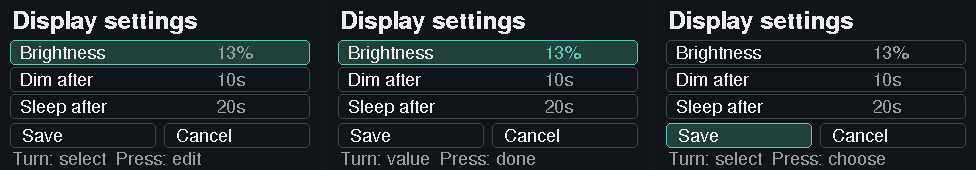
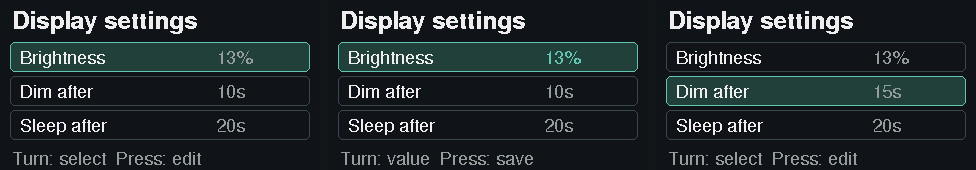
fix: save display values when the wheel confirms an edit
Keep three value rows and persist each confirmed edit without leaving Display. Back and expiry discard only unconfirmed changes, and failed saves restore the last confirmed values.

Remove separate Save/Cancel controls, cover persistence and presentation in regression tests, and update the control guide. References #36 and #33.

Changed region(s): [[0.0, 0.2353, 1.0, 0.8824], [0.8607, 0.9118, 0.9221, 0.9706], [0.4918, 0.9118, 0.5533, 0.9706]]

diff --git a/test/test_localui/test_localui.cpp b/test/test_localui/test_localui.cpp
@@ -156,50 +156,55 @@ static void wake_holds_and_mixed_gestures_do_not_emit() {
   held.devices(); held.tick(-1); held.tick(0,true);held.tick(1,true);held.tick();held.tick();
   TEST_ASSERT_FALSE(held.c.take(out));
 }
-static void display_wheel_selects_rows_and_only_explicit_save_persists() {
+static void display_confirm_saves_each_value_without_leaving_the_screen() {
   Drive d;d.home();for(unsigned i=0;i<4;i++)d.tick(1);d.click();
-  TEST_ASSERT_EQUAL(Screen::brightness,d.c.view().screen);
-  d.tick(1);
-  TEST_ASSERT_EQUAL(1,d.c.view().setting);
+  d.tick(1);TEST_ASSERT_EQUAL(1,d.c.view().setting);
   TEST_ASSERT_EQUAL(32,d.c.preference());
-  TEST_ASSERT_EQUAL(10,d.c.preferences().dimSeconds);
-  d.click();d.tick(1); // Edit Dim after.
-  TEST_ASSERT_EQUAL(1,d.c.view().setting);
-  TEST_ASSERT_EQUAL(15,d.c.preferences().dimSeconds);
-  d.click();d.tick(1); // Return to selection, then select Sleep after.
-  TEST_ASSERT_EQUAL(2,d.c.view().setting);
-  TEST_ASSERT_EQUAL(20,d.c.preferences().offSeconds);
-  d.click();d.tick(-1);d.click();
-  TEST_ASSERT_EQUAL(15,d.c.preferences().offSeconds);
   DisplayPreferences saved;TEST_ASSERT_FALSE(d.c.takePreferences(saved));
-  d.tick(1); // Save row.
-  d.click(false);TEST_ASSERT_EQUAL(Screen::brightness,d.c.view().screen);
+  d.click();d.tick(1);TEST_ASSERT_EQUAL(15,d.c.preferences().dimSeconds);
+  TEST_ASSERT_FALSE(d.c.takePreferences(saved));
+  d.click(false);TEST_ASSERT_TRUE(d.c.view().displayEditing);
   TEST_ASSERT_FALSE(d.c.takePreferences(saved));
   d.click();TEST_ASSERT_TRUE(d.c.takePreferences(saved));
+  TEST_ASSERT_EQUAL(15,saved.dimSeconds);TEST_ASSERT_EQUAL(20,saved.offSeconds);
+  TEST_ASSERT_EQUAL(Screen::brightness,d.c.view().screen);
+  TEST_ASSERT_FALSE(d.c.view().displayEditing);TEST_ASSERT_EQUAL(1,d.c.view().setting);
+  d.c.brightnessResult(d.now,true);
+  d.tick(1);d.click();d.tick(-1);d.click();TEST_ASSERT_TRUE(d.c.takePreferences(saved));
   TEST_ASSERT_EQUAL(15,saved.dimSeconds);TEST_ASSERT_EQUAL(15,saved.offSeconds);
-  TEST_ASSERT_FALSE(d.c.takePreferences(saved));
+  d.c.brightnessResult(d.now,true);
+  d.tick(1);TEST_ASSERT_EQUAL(2,d.c.view().setting); // No Save or Cancel rows.
+  d.back();TEST_ASSERT_EQUAL(15,d.c.preferences().dimSeconds);TEST_ASSERT_EQUAL(15,d.c.preferences().offSeconds);
+  d.click();TEST_ASSERT_EQUAL(0,d.c.view().setting);TEST_ASSERT_FALSE(d.c.view().displayEditing);
 }
-static void display_cancel_timeout_and_reentry_discard_edits() {
+static void display_back_expiry_and_reentry_keep_only_confirmed_values() {
   for(unsigned reason=0;reason<3;++reason) {
     Drive d;d.home();for(unsigned i=0;i<4;i++)d.tick(1);d.click();
-    d.click(false);d.tick(1); // An unseen press must not enter editing.
-    TEST_ASSERT_EQUAL(32,d.c.preference());TEST_ASSERT_EQUAL(1,d.c.view().setting);
-    d.tick(-1);d.click();d.tick(1);TEST_ASSERT_EQUAL(38,d.c.preference());
-    if(reason==0) {d.click();for(unsigned i=0;i<4;i++)d.tick(1);d.tick(1);TEST_ASSERT_EQUAL(4,d.c.view().setting);d.click();}
-    else if(reason==1)d.back();
-    else {d.f.base.anyMoving=false;d.tick(0,false,true,false,21000);}
-    DisplayPreferences saved;TEST_ASSERT_FALSE(d.c.takePreferences(saved));TEST_ASSERT_EQUAL(32,d.c.preference());
-    if(reason<2) {d.click();d.tick(1);TEST_ASSERT_EQUAL(1,d.c.view().setting);TEST_ASSERT_EQUAL(32,d.c.preference());}
+    d.click();d.tick(1);d.click();
+    DisplayPreferences saved;TEST_ASSERT_TRUE(d.c.takePreferences(saved));d.c.brightnessResult(d.now,true);
+    d.click();d.tick(1);TEST_ASSERT_EQUAL(51,d.c.preference());
+    if(reason==0)d.back();
+    else if(reason==1){d.f.base.anyMoving=false;d.tick(0,false,true,false,21000);}
+    else {d.f.base.authorized=false;d.tick();}
+    TEST_ASSERT_FALSE(d.c.takePreferences(saved));TEST_ASSERT_EQUAL(38,d.c.preference());
+    if(reason==0){d.click();TEST_ASSERT_FALSE(d.c.view().displayEditing);TEST_ASSERT_EQUAL(0,d.c.view().setting);}
   }
 }
-static void brightness_back_cancels_and_explicit_save_reports_failure() {
+static void brightness_back_cancels_and_confirm_reports_failure() {
   Drive d; d.home(); for(unsigned i=0;i<4;i++) d.tick(1); d.click();
-  TEST_ASSERT_EQUAL(int(Screen::brightness),int(d.c.view().screen));
-  d.click();d.tick(1); TEST_ASSERT_EQUAL(38,d.c.preference()); d.back();
-  DisplayPreferences saved; TEST_ASSERT_FALSE(d.c.takePreferences(saved)); TEST_ASSERT_EQUAL(32,d.c.preference());
-  d.click();d.click();d.tick(1);d.click();for(unsigned i=0;i<3;i++)d.tick(1);d.click();
-  TEST_ASSERT_TRUE(d.c.takePreferences(saved)); TEST_ASSERT_EQUAL(38,saved.brightness);
-  d.c.brightnessResult(d.now,false); TEST_ASSERT_EQUAL(int(Notice::saveFailed),int(d.c.view().notice));
+  d.click();d.tick(1);TEST_ASSERT_EQUAL(38,d.c.preference());d.back();
+  DisplayPreferences saved;TEST_ASSERT_FALSE(d.c.takePreferences(saved));TEST_ASSERT_EQUAL(32,d.c.preference());
+  d.click();d.click();d.tick(1);d.click();TEST_ASSERT_TRUE(d.c.takePreferences(saved));
+  d.c.brightnessResult(d.now,false);TEST_ASSERT_EQUAL(Notice::saveFailed,d.c.view().notice);
+  TEST_ASSERT_EQUAL(32,d.c.preference());
+  d.click();d.tick(1);d.click();TEST_ASSERT_TRUE(d.c.takePreferences(saved));d.c.brightnessResult(d.now,true);
+  d.back();TEST_ASSERT_EQUAL(38,d.c.preference());
+}
+static void display_unchanged_and_unseen_confirmation_never_write() {
+  Drive d;d.home();for(unsigned i=0;i<4;i++)d.tick(1);d.click();
+  d.click(false);TEST_ASSERT_FALSE(d.c.view().displayEditing);
+  d.click();d.click();DisplayPreferences saved;TEST_ASSERT_FALSE(d.c.takePreferences(saved));
+  d.tick(-1);TEST_ASSERT_EQUAL(0,d.c.view().setting);
 }
 static void privileged_brightness_draft_reverts_on_expiry_or_configuration_change() {
   for(unsigned reason=0;reason<2;reason++) {
@@ -359,10 +364,10 @@ static void graphics_discard_clears_settings_events_and_preserves_live_preferenc
   const auto preserved=events.c.preferences();TEST_ASSERT_EQUAL(128,preserved.brightness);TEST_ASSERT_EQUAL(30,preserved.dimSeconds);TEST_ASSERT_EQUAL(60,preserved.offSeconds);
   for(unsigned phase=0;phase<4;phase++) {
     Drive d;d.home();for(unsigned i=0;i<4;i++)d.tick(1);d.click();d.click();d.tick(1); //32->38 live preview
-    if(phase) {d.click();for(unsigned i=0;i<3;i++)d.tick(1);d.click();} // explicit Save produced, but not yet consumed
+    if(phase) d.click(); // Confirmation produced, but not yet consumed
     if(phase>=2) {DisplayPreferences output;TEST_ASSERT_TRUE(d.c.takePreferences(output));d.c.brightnessResult(d.now,phase==2);}
     assertTransientDiscarded(d);
-    TEST_ASSERT_EQUAL(phase<2?32:38,d.c.preference()); // consumed failed Save also keeps its already applied live value
+    TEST_ASSERT_EQUAL(phase==2?38:32,d.c.preference()); // Only a successful save changes the confirmed baseline.
   }
 }
 static void graphics_discard_restarts_debounce_and_suppresses_held_recovery_input() {
@@ -540,12 +545,14 @@ static void routed_display_revocation_returns_to_its_visible_origin(){
   d.click();TEST_ASSERT_EQUAL(cause&2?Screen::unlock:Screen::brightness,d.c.view().screen);
  }
 }
-static void routed_display_save_returns_to_configure_once(){
+static void routed_display_confirm_stays_until_back(){
  Drive d;d.f.base.quickReady=true;d.f.base.quickRevision=3;d.f.base.anyMoving=false;d.tick();
  for(unsigned i=0;i<7;i++)d.tick(1);d.click();d.click();for(unsigned i=0;i<5;i++)d.tick(1);d.click();
- TEST_ASSERT_EQUAL(Screen::brightness,d.c.view().screen);for(unsigned i=0;i<3;i++)d.tick(1);d.click();
- TEST_ASSERT_EQUAL(Screen::configureMenu,d.c.view().screen);TEST_ASSERT_EQUAL(5,d.c.view().selected);
- DisplayPreferences prefs;Command command;TEST_ASSERT_TRUE(d.c.takePreferences(prefs));TEST_ASSERT_FALSE(d.c.takePreferences(prefs));TEST_ASSERT_FALSE(d.c.take(command));
+ TEST_ASSERT_EQUAL(Screen::brightness,d.c.view().screen);d.click();d.tick(1);d.click();
+ TEST_ASSERT_EQUAL(Screen::brightness,d.c.view().screen);
+ DisplayPreferences prefs;Command command;TEST_ASSERT_TRUE(d.c.takePreferences(prefs));d.c.brightnessResult(d.now,true);
+ TEST_ASSERT_FALSE(d.c.takePreferences(prefs));TEST_ASSERT_FALSE(d.c.take(command));d.back();
+ TEST_ASSERT_EQUAL(Screen::configureMenu,d.c.view().screen);TEST_ASSERT_EQUAL(5,d.c.view().selected);TEST_ASSERT_EQUAL(38,d.c.preference());
 }
 static void upper_brightness_changes_in_five_percent_steps_without_losing_saved_levels() {
   Drive d; d.c.setPreferences({128,0,0});d.home();for(unsigned i=0;i<4;i++)d.tick(1);d.click();
@@ -583,10 +590,11 @@ int main() {
   UNITY_BEGIN();
   RUN_TEST(unseen_unlock_key_never_appends_until_presented);
   RUN_TEST(unseen_unlock_done_never_submits_until_presented);
-  RUN_TEST(display_cancel_timeout_and_reentry_discard_edits);
-  RUN_TEST(display_wheel_selects_rows_and_only_explicit_save_persists);
+  RUN_TEST(display_back_expiry_and_reentry_keep_only_confirmed_values);
+  RUN_TEST(display_unchanged_and_unseen_confirmation_never_write);
+  RUN_TEST(display_confirm_saves_each_value_without_leaving_the_screen);
   RUN_TEST(upper_brightness_changes_in_five_percent_steps_without_losing_saved_levels);
-  RUN_TEST(routed_display_save_returns_to_configure_once);
+  RUN_TEST(routed_display_confirm_stays_until_back);
   RUN_TEST(routed_display_revocation_returns_to_its_visible_origin);
   RUN_TEST(approved_controller_navigation_preserves_explicit_origins);
   RUN_TEST(quick_revocation_consumes_only_an_existing_press);
@@ -605,7 +613,7 @@ int main() {
   RUN_TEST(locked_stop_lease_never_authorizes_another_action);
   RUN_TEST(secrets_wipe_on_cancel_configuration_change_sleep_and_timeout);
   RUN_TEST(wake_holds_and_mixed_gestures_do_not_emit);
-  RUN_TEST(brightness_back_cancels_and_explicit_save_reports_failure);
+  RUN_TEST(brightness_back_cancels_and_confirm_reports_failure);
   RUN_TEST(privileged_brightness_draft_reverts_on_expiry_or_configuration_change);
   RUN_TEST(settings_receives_logical_events_and_closes_explicitly);
   RUN_TEST(encoder_detents_bounce_and_memory_failures_remain_bounded);

diff --git a/src/LocalUi.cpp b/src/LocalUi.cpp
@@ -22,8 +22,7 @@ void Controller::setPreferences(const DisplayPreferences &p) {
   }
 }
 void Controller::discardTransient() {
-  // Save consumption is the existing synchronous live-application boundary;
-  // a reported persistence failure still leaves those live values applied.
+  // Discard unconfirmed display edits while retaining the last saved values.
   const auto keep=state.screen==Screen::brightness || savePending?brightnessBefore:preferences();
   editor.cancel();valueEditor.cancel();
   state=View{};pending=repeatWitness=Command{};formInput={};
@@ -251,9 +250,12 @@ void Controller::shortPress(uint32_t now,const Model &m,bool visible) {
     break;
   case Screen::brightness:
     if(!visible) state.notice=Notice::wait;
-    else if(state.setting<3) state.displayEditing=!state.displayEditing;
-    else if(state.setting==3) {savePending=true;if(state.routed)closeForm();else {state.screen=Screen::home;state.selected=4;}}
-    else goBack();
+    else if(!state.displayEditing) state.displayEditing=true;
+    else {
+      state.displayEditing=false;
+      const auto value=preferences();
+      savePending=value.brightness!=brightnessBefore.brightness || value.dimSeconds!=brightnessBefore.dimSeconds || value.offSeconds!=brightnessBefore.offSeconds;
+    }
     break;
   case Screen::control:
     if(state.action==Action::count) {
@@ -605,7 +607,7 @@ void Controller::tick(uint32_t now, const Model &m, int8_t turn, bool pressed, b
     else if(state.screen == Screen::brightness) {
       if(!state.displayEditing) {
         const int next=int(state.setting)+(turn>0?1:-1);
-        state.setting=next<0?0:next>4?4:next;
+        state.setting=next<0?0:next>2?2:next;
       } else if(state.setting == 0) {
         if(turn>0) {
           for(auto level:levels) if(level>state.level) {state.level=level;break;}
@@ -642,6 +644,8 @@ void Controller::tick(uint32_t now, const Model &m, int8_t turn, bool pressed, b
   }
 }
 void Controller::brightnessResult(uint32_t now, bool saved) {
+  if(saved) brightnessBefore=preferences();
+  else setPreferences(brightnessBefore);
   state.notice = saved ? Notice::saved : Notice::saveFailed;
   noticeSince = now;
 }

diff --git a/src/LocalUiRenderer.cpp b/src/LocalUiRenderer.cpp
@@ -339,11 +339,11 @@ void Canvas::paint(const Model &m, const View &v, const StatusDisplay::Snapshot 
     text(12, 28, "Display settings", true, white);
     const char *labels[] = {"Brightness", "Dim after", "Sleep after"};
     for(int i = 0; i < 3; i++) {
-      const int y = 40 + i * 27;
+      const int y = 42 + i * 34;
       const bool active = v.setting == i;
-      fillRoundRect(10, y, 300, 25, 5, active ? selected : bg);
-      drawRoundRect(10, y, 300, 25, 5, active ? teal : line);
-      text(20, y + 18, labels[i], false, white, 160);
+      fillRoundRect(10, y, 300, 30, 5, active ? selected : bg);
+      drawRoundRect(10, y, 300, 30, 5, active ? teal : line);
+      text(20, y + 21, labels[i], false, white, 160);
       if(i == 0)
         snprintf(label, sizeof(label), "%u%%", unsigned((v.level * 100 + 127) / 255));
       else {
@@ -353,15 +353,9 @@ void Canvas::paint(const Model &m, const View &v, const StatusDisplay::Snapshot 
         else
           snprintf(label, sizeof(label), "%us", unsigned(seconds));
       }
-      text(216, y + 18, label, false, active && v.displayEditing ? teal : muted, 86);
+      text(216, y + 21, label, false, active && v.displayEditing ? teal : muted, 86);
     }
-    for(int i=0;i<2;++i) {
-      const int x=10+i*154;
-      fillRoundRect(x,123,146,25,5,v.setting==i+3?selected:bg);
-      drawRoundRect(x,123,146,25,5,v.setting==i+3?teal:line);
-      text(x+12,141,i==0?"Save":"Cancel",false,white,120);
-    }
-    text(12,164,v.displayEditing?"Turn: value  Press: done":v.setting<3?"Turn: select  Press: edit":"Turn: select  Press: choose",false,muted);
+    text(12,164,v.displayEditing?"Turn: value  Press: save":"Turn: select  Press: edit",false,muted);
   } else if(v.screen==Screen::actions || v.screen==Screen::repeatActions) {
     snprintf(label,sizeof(label),"#%s%u %s",v.entity.kind==EntityKind::group?"G":"",unsigned(v.entity.id),m.target.name);
     text(12,28,label,true,white,230);

diff --git a/tests/ui-render/runtime-test.cpp b/tests/ui-render/runtime-test.cpp
@@ -1739,7 +1739,10 @@ int main(int argc,char **argv){
   assert(quickUi.preferences().brightness==displayBefore.brightness && quickUi.preferences().dimSeconds==displayBefore.dimSeconds);
   click();idle();assert(RuntimeTestAccess::view(quickUi).displayEditing); // Must repaint and present editing mode.
   click();idle();assert(!RuntimeTestAccess::view(quickUi).displayEditing);
-  for(unsigned i=0;i<2;++i){rotate(1);idle();}click();idle(); // Explicit Display Save, unchanged values.
+  click();idle();rotate(1);idle();click();idle(); // Confirm Dim after and persist immediately.
+  assert(lastQuery.screen==Screen::brightness && !RuntimeTestAccess::view(quickUi).displayEditing);
+  assert(quickUi.preferences().dimSeconds==15 && RuntimeTestAccess::view(quickUi).notice==Notice::saved);
+  back();idle();assert(quickUi.preferences().dimSeconds==15);
   assert(lastQuery.screen==Screen::configureMenu && RuntimeTestAccess::view(quickUi).selected==5);
   for(unsigned cause=0;cause<2;++cause){
     selectMenu(5);click();idle();assert(lastQuery.screen==Screen::brightness);

diff --git a/tests/ui-render/render.cpp b/tests/ui-render/render.cpp
@@ -98,7 +98,7 @@ int main(int argc,char **argv) {
   v.notice=Notice::stopNotQueued;canvas.paint(m,v,s);save(argv[1],"stop-not-queued",buffer);v.notice=Notice::none;
   v=View{};v.screen=Screen::brightness;canvas.paint(m,v,s);save(argv[1],"display-select",buffer);
   const auto displaySelection=buffer;v.displayEditing=true;canvas.paint(m,v,s);save(argv[1],"display-edit",buffer);assert(buffer!=displaySelection);
-  v.displayEditing=false;v.setting=3;canvas.paint(m,v,s);save(argv[1],"display-save",buffer);assert(buffer!=displaySelection);
+  v.displayEditing=false;v.dimSeconds=15;v.setting=1;v.notice=Notice::saved;canvas.paint(m,v,s);save(argv[1],"display-confirmed",buffer);assert(buffer!=displaySelection);v.notice=Notice::none;
   v.dimSeconds=v.offSeconds=0;v.setting=2;canvas.paint(m,v,s);save(argv[1],"no-timeouts",buffer);
   v.screen=Screen::unlock;v.credentialMaximum=4;v.credentialLength=4;v.credentialChoice=CredentialEditor::doneChoice;
   canvas.paint(m,v,s);save(argv[1],"unlock-pin",buffer);original=buffer;

diff --git a/tests/ui-render/presentation-test.cpp b/tests/ui-render/presentation-test.cpp
@@ -17,7 +17,7 @@ int main() {
   shown.screen=current.screen=Screen::brightness;shown.setting=current.setting=0;
   assert(sameMeaning(current,shown,1,1,11,11));current.displayEditing=true;
   assert(!sameMeaning(current,shown,1,1,11,11));current.displayEditing=false;
-  current.setting=3;assert(!sameMeaning(current,shown,1,1,11,11));
+  current.setting=1;assert(!sameMeaning(current,shown,1,1,11,11));
   shown.screen=current.screen=Screen::control;shown.repeatHeld=current.repeatHeld=false;
   assert(sameMeaning(current,shown,1,1,11,11));current.repeatHeld=true;
   assert(!sameMeaning(current,shown,1,1,11,11));

diff --git a/tasks/issue-36.md b/tasks/issue-36.md
@@ -1,17 +1,17 @@
-# Issue 36 — complete
+# Issue 36 — save each display value on press
 
-Objective: make System → Configure → Display follow the local UI's select-then-edit interaction.
+Objective: remove Display Save/Cancel controls. Turn selects a row, press enters editing, turn changes a draft and the next center press saves that value and returns to row selection.
 
-Acceptance: wheel turns select rows without changing values; pressing a value row enters editing and pressing again returns to selection; only explicit Save persists the draft; Cancel/Back restore original preferences; authorization, inactivity, and completed-frame guards remain intact. The screen must distinguish selection from editing.
+Acceptance: three value rows only; confirmation persists immediately without leaving Display; confirmed values survive Back, expiry and reboot; unconfirmed edits revert on Back/expiry; storage failures are shown; completed-frame and authorization guards remain intact.
 
-Scope: display controller, renderer, presentation identity, regression tests and user instructions. No device access, flashing, RF or motor tests.
+Scope: display controller/renderer, regression tests, guide and screenshot; verified same-layout firmware-only update with fresh full-flash recovery set, then integration into main. Sid explicitly authorized flashing and its necessary access/backup/reboot on 2026-11-11. No RF/motor tests or HA changes are authorized.
 
-Completed milestones: reproduced the original failure with a native test; implemented select/edit/Save/Cancel; verified the rendered screen, real runtime input flow and full-feature firmware package.
+Workspace: `issue-36-display`, branch `codex/issue-36-save-on-press`, based on main `19b4dcb`. Use only git-agent/gh-agent as r-sidshaytay. Clean up this worktree after successful deployment and merge, retaining private recovery artifacts.
 
-Delivery: reviewed fix integrated into main. Display selection, editing and explicit Save/Cancel are complete; no further offline requirements remain.
+Completed milestone: failing confirmation regression reproduced the missing save; correction passes 39 controller tests, full native suite (1,321 passed, one optional private-backup skip), production preview/runtime/capture/adapter/queue harnesses. Reversing the successful-save baseline condition caused five regression failures. Updated #36 requirements and #33 manual checklist; both remain open.
 
-Validation: 1,320 native tests passed (one optional private-backup test skipped), including 38 focused controller tests; production renderer/runtime/capture/adapter/queue/update harnesses, 122 JavaScript tests, release-script tests and canonical LILYGO firmware build/package validation passed. An isolated mutation reversing the selection/edit condition caused six controller tests to fail. Source review covered correctness, readability, architecture, authorization/presentation guards and bounded rendering; no blocking findings.
+Next milestone: finish fresh raw backup verification, restore the current confirmed application, and build the reviewed clean-source candidate before a single firmware-only upload.
 
-Integration checks: merged main through `2136bf2` without conflicts, reviewed the resulting display/runtime diff, and reran the complete preview/runtime harness, audit-mode UI harness and canonical firmware build/package validation successfully. Native-test inputs were unchanged by that main update.
+Review: controller state transitions, persisted-baseline handling, failure/cancellation, unchanged-value write suppression, authorization and completed-frame checks reviewed without blocking findings. Normal and audit-mode UI harnesses, 122 JS tests and release-script checks passed.
 
-Hardware validation: not performed; no device access or flashing was requested.
+State: implementation complete; clean firmware build and deployment pending. Full backup read is in progress; no firmware upload has occurred. Private recovery pointer: `~/.local/state/espsomfy-lilygo/ISSUE36_CONFIRM_ACTIVE`. Historical Save/Cancel behavior is superseded by this request.

diff --git a/docs/lilygo-local-ui.md b/docs/lilygo-local-ui.md
@@ -91,13 +91,13 @@ control page preserves it, keeping its existing STOP access and expiry rules.
 - On a control page, turn to the available UP/STOP/DOWN or Toggle action and press. More opens additional supported actions: position, tilt, MY position, 80-bit Favorite, steps and sun flags. The menu reflects the actual device capabilities; it adds no separate light opcode. Group actions require compatible configured RF members. An 80-bit group also offers Favorite when every configured member supports it; mixed, missing or incompatible members disable it. This sends one command using the group identity and updates member estimates, without substituting individual member commands.
 - Numeric position/tilt drafts range from 0 to 100; steps range from 1 to 127. Turn to adjust, press to review, then turn from the default **Cancel** to **Apply** and press. Turns and Cancel send nothing. An unavailable position estimate prevents opening a position draft rather than choosing a target silently. Back cancels a draft and returns directly to the main control page with STOP selected when supported.
 - Push requires the selected row, target, action and Apply choice to have reached the panel. If SPI is busy, wait for the display and press again. A previously shown STOP remains reachable while the same target repaints estimates. Changed identity, configuration or group membership requires reopening the target.
-- Back returns without sending a command. An encoder hold also returns from navigation/editors, except on the final **Hold to send** repeat review. Display drafts are cancelled by Back. Turn the wheel to select Brightness, Dim after or Sleep after, then press to edit. Turn to change the value and press again to return to selection. Select Save and press to save all three values, or select Cancel to discard the draft. Saves occur together, never on every turn, and failures are shown.
+- Back returns without sending a command. An encoder hold also returns from navigation/editors, except on the final **Hold to send** repeat review. Turn the wheel to select Brightness, Dim after or Sleep after, then press to edit. Turn to change the value and press again to save it immediately and return to row selection. Back discards an unconfirmed edit; values already confirmed stay saved. Storage failures are shown.
 - Brightness levels are 2, 4, 8, 16, 32, 64, 128 and 255 out of 255 (default 32). Dim/sleep choices are disabled, 5, 10, 15, 20, 30, 60, 120 and 300 seconds. **No dim** disables dimming; **No sleep** keeps the display on. Defaults are dim after 10 seconds and sleep after 20 seconds, measured independently from the last input.
 - While any configured shade is estimated moving, the UI stays awake so STOP remains reachable. Wake, rotation and Back create no shutter request; only the explicit repeat-review hold starts repeated commands. With No sleep selected, idle navigation returns to Status after 30 seconds while leaving the display on.
 
-![Display row selection, value editing and explicit Save](images/lcd/display-settings.png)
+![Display row selection, value editing and confirmed value](images/lcd/display-settings.png)
 
-Display settings rendered from synthetic state: selection, editing and Save, from left to right.
+Display settings rendered from synthetic state: selection, editing and a saved value, from left to right.
 
 ## Hold to send repeats
 
